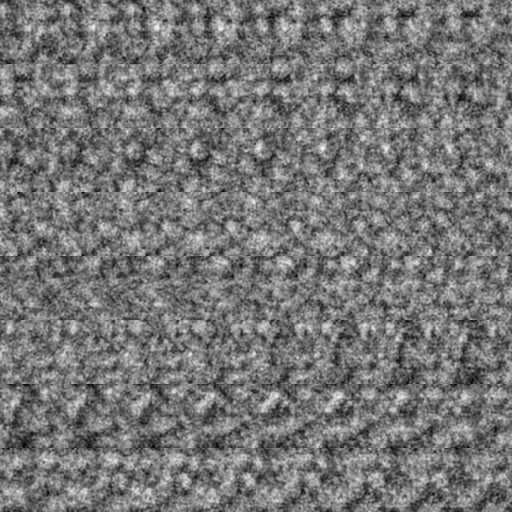
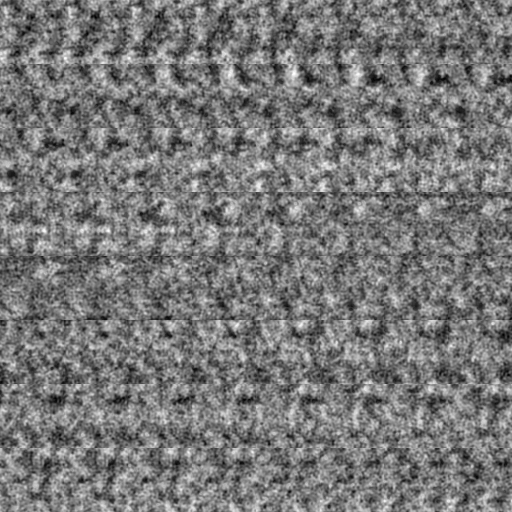
Версия 2, тест 0.8.2: облака из объёмных клубов — по разбору владельцем кадра 0.8.1
Облако было «куполом» над пятном карты: отсюда горы и пирамиды, плоские
подставки и горизонтальные «ступени». Теперь карта задаёт только, где
облако есть и какой у него потолок, а форму лепит объёмный шум: округлые
клубы разного размера, мягкий низ, тупой верх. Облако — цепочка из
нескольких воздушных масс. Свет — три пробы плотности к светилу.

Типы: малые и крупные кучевые, поля слоисто-кучевых, перистые пряди
высоко; в шторм низ туч провисает валами. Облака собраны в группы,
чистого неба больше четырёх пятых.

Шаг 1.7 отложен до окончания 1.10 (решение владельца).

Claude-Session: https://claude.ai/code/session_01GYZTpVpHB6EzyvMrXyiWEP

diff --git a/v2/tools/weather/make.py b/v2/tools/weather/make.py
@@ -5,13 +5,16 @@
 
 Пишет в v2/assets/weather/:
   cloud_map.png   — карта облаков 1024×1024, плитка 48 км (47 м на точку), бесшовная. Каналы:
-                    R — ясная погода: толщина отдельных кучевых облаков (1 — 2200 м);
+                    R — ясная погода: «присутствие» кучевых облаков (1 — середина облачной массы, к краю — 0);
                     G — шторм: сплошные тучи с крупными грозовыми башнями (1 — 3400 м);
-                    B — где в шторм льёт сильнее всего (под башнями).
+                    B — где в шторм льёт сильнее всего (под башнями);
+                    A — ясная погода: потолок облака над его низом (1 — 2200 м).
   cloud_noise.png — объёмный шум 64×64×64 (8×8 срезов), бесшовный: им «обгрызаются» края облаков.
 
-Облака ясной погоды — не шум, а отдельные облака: у каждого свой размер, вытянутость, число «клубов» и высота;
-лежат они неравномерно — группами, между которыми большие чистые участки неба. Числа — в начале файла.
+Облака ясной погоды — не шум, а отдельные облака: малые и крупные кучевые, одиночные и группами, местами поля
+слоисто-кучевых; у каждого свои размер, число воздушных масс и высота; между группами — большие чистые участки
+неба. На карте — где облако есть и какой у него потолок; сами клубы лепит объёмный шум в шейдере неба.
+Числа — в начале файла.
 """
 from pathlib import Path
 
@@ -26,7 +29,9 @@ TILE = 48000.0  # метров в плитке карты
 TEXEL = TILE / N
 CLEAR_DEPTH = 2200.0  # метров толщины облака ясной погоды при значении 1
 STORM_DEPTH = 3400.0  # то же для туч шторма
-CLEAR_CLOUDS = 100  # сколько облаков на плитке в ясную погоду (2300 км²)
+CLEAR_CLOUDS = 120  # сколько кучевых облаков на плитке в ясную погоду (2300 км²)
+CLEAR_LARGE = 9  # из них крупных
+CLEAR_SHEETS = 2  # и сколько полей слоисто-кучевых
 STORM_TOWERS = 13  # сколько грозовых башен на плитке
 
 
@@ -64,7 +69,7 @@ def stamp(target, warp_x, warp_y, centre, radius, height, power):
 
 
 def cloud(target, warp_x, warp_y, rng, centre, radius, depth, power):
-    """Одно облако: несколько клубов вдоль своей оси; середина выше краёв."""
+    """Туча шторма: несколько клубов вдоль своей оси; середина выше краёв."""
     lobes = int(round(4 + 6 * min(radius / 1500.0, 1.0) + rng.uniform(0, 3)))
     turn = rng.uniform(0, np.pi)
     stretch = rng.uniform(1.0, 2.0)
@@ -77,36 +82,81 @@ def cloud(target, warp_x, warp_y, rng, centre, radius, depth, power):
         lobe_radius = radius * rng.uniform(0.3, 0.64) * (1.0 - 0.25 * away)
         lobe_height = depth * (1.0 - 0.6 * away ** 1.5) * rng.uniform(0.6, 1.0)
         stamp(target, warp_x, warp_y, centre + axis * along + side * across, lobe_radius, lobe_height, power)
-    # Башенки: узкие высокие клубы ближе к середине — верх облака неровный.
-    for _ in range(int(rng.integers(1, 4))):
-        offset = axis * rng.uniform(-0.4, 0.4) * radius * stretch + side * rng.uniform(-0.3, 0.3) * radius / stretch
-        stamp(target, warp_x, warp_y, centre + offset, radius * rng.uniform(0.24, 0.4), depth * rng.uniform(0.95, 1.14), power)
+
+
+def cumulus(cover, top, warp_x, warp_y, rng, centre, radius, depth):
+    """Кучевое облако: несколько воздушных масс цепочкой (не вокруг одной середины — силуэт несимметричный),
+    у каждой свои размер и высота; одна из масс — главная, самая высокая. На карту ложится не форма облака,
+    а его «присутствие» (cover: 1 — середина массы, к краю сходит на нет) и потолок (top, метры): сами клубы
+    лепит объёмный шум в шейдере неба — поэтому у облака нет ни конуса, ни ровного края."""
+    masses = int(rng.integers(1, 3)) if radius < 500.0 else int(rng.integers(2, 6))
+    at = np.array(centre, dtype=float)
+    heading = rng.uniform(0, 2 * np.pi)
+    lead = int(rng.integers(0, masses))
+    for index in range(masses):
+        size = radius * rng.uniform(0.45, 0.8) * (1.0 if index == lead else rng.uniform(0.6, 0.95))
+        height = depth * (1.0 if index == lead else rng.uniform(0.4, 0.8))
+        stamp(cover, warp_x, warp_y, at, size, 1.0, 0.75)
+        stamp(top, warp_x, warp_y, at, size * 1.12, height, 0.3)
+        # Пара клубов сбоку от массы: край неровный.
+        for _ in range(int(rng.integers(1, 4))):
+            turn = rng.uniform(0, 2 * np.pi)
+            offset = np.array([np.cos(turn), np.sin(turn)]) * size * rng.uniform(0.55, 0.95)
+            small = size * rng.uniform(0.3, 0.55)
+            stamp(cover, warp_x, warp_y, at + offset, small, rng.uniform(0.6, 0.95), 0.75)
+            stamp(top, warp_x, warp_y, at + offset, small * 1.12, height * rng.uniform(0.45, 0.85), 0.3)
+        heading += rng.uniform(-1.1, 1.1)
+        at = at + np.array([np.cos(heading), np.sin(heading)]) * size * rng.uniform(0.8, 1.25)
 
 
 def clear_field(rng):
-    """Ясная погода: редкие отдельные кучевые облака, группами."""
-    groups = to_unit(spectral(rng, (N, N), 180, 520), 1.6)  # где облака собираются в группы (волны 8–24 км)
-    warp_x = spectral(rng, (N, N), 5, 44) * 130.0
-    warp_y = spectral(rng, (N, N), 5, 44) * 130.0
-    field = np.zeros((N, N))
-    placed = []
+    """Ясная погода: отдельные кучевые облака — малые и крупные, одиночные и группами, местами поле
+    слоисто-кучевых; между ними — большие чистые участки неба. Раскладывает их не равномерная случайность,
+    а плавное поле облачности: где оно высоко — группы облаков, где низко — чисто."""
+    field = spectral(rng, (N, N), 150, 600, 1.2)  # поле облачности: волны 7–28 км
+    groups = to_unit(field + 0.45 * spectral(rng, (N, N), 40, 150), 1.5)
+    warp_x = spectral(rng, (N, N), 5, 44) * 150.0
+    warp_y = spectral(rng, (N, N), 5, 44) * 150.0
+    cover = np.zeros((N, N))
+    top = np.zeros((N, N))
+    placed = 0
+    large = 0
     tries = 0
-    while len(placed) < CLEAR_CLOUDS and tries < 200000:
+    while placed < CLEAR_CLOUDS and tries < 400000:
         tries += 1
         centre = rng.uniform(0, TILE, 2)
         here = groups[int(centre[1] / TEXEL) % N, int(centre[0] / TEXEL) % N]
-        chance = 0.015 + np.clip((here - 0.54) / 0.3, 0.0, 1.0) ** 1.5
+        # Половина неба чистая: облака — только там, где поле облачности выше середины; редкие одиночки — где угодно.
+        chance = 0.004 + np.clip((here - 0.56) / 0.26, 0.0, 1.0) ** 1.6
         if rng.uniform() > chance:
             continue
-        radius = float(np.clip(rng.lognormal(np.log(430.0 + 380.0 * (chance - 0.015)), 0.45), 230.0, 1500.0))
-        offsets = [(np.array(c) - centre + TILE / 2) % TILE - TILE / 2 for c, _ in placed]
-        if any(np.hypot(*o) < (radius + r) * 1.15 for o, (_, r) in zip(offsets, placed)):
-            continue
-        placed.append((centre, radius))
-        depth = min(2.0 * radius * rng.uniform(0.42, 0.7), 1700.0)
-        cloud(field, warp_x, warp_y, rng, centre, radius, depth, 0.55)
-    field *= 0.88 + 0.12 * to_unit(spectral(rng, (N, N), 5, 30))
-    return gaussian_filter(field, 0.6, mode="wrap") / CLEAR_DEPTH, len(placed)
+        # Размеры: много малых облаков, реже средние, изредка — крупное кучевое в середине группы.
+        kind = rng.uniform()
+        if kind < 0.07 and chance > 0.5 and large < CLEAR_LARGE:
+            radius = rng.uniform(1300.0, 2600.0)
+            depth = rng.uniform(1200.0, 2100.0)
+            large += 1
+        elif kind < 0.4:
+            radius = rng.uniform(550.0, 1100.0)
+            depth = radius * rng.uniform(0.7, 1.3)
+        else:
+            radius = rng.uniform(220.0, 520.0)
+            depth = radius * rng.uniform(0.6, 1.2)
+        placed += 1
+        cumulus(cover, top, warp_x, warp_y, rng, centre, radius, min(depth, CLEAR_DEPTH * 0.98))
+    # Слоисто-кучевое поле: широкое пятно низких плоских облаков — то сомкнутых, то с просветами.
+    for _ in range(CLEAR_SHEETS):
+        centre = rng.uniform(0, TILE, 2)
+        span = rng.uniform(4500.0, 8000.0)
+        sheet = np.zeros((N, N))
+        stamp(sheet, warp_x * 6.0, warp_y * 6.0, centre, span, 1.0, 0.6)
+        cells = to_unit(spectral(rng, (N, N), 9, 70, 0.6), 1.3)
+        sheet_cover = np.clip((cells - 0.42) / 0.3, 0.0, 1.0) * np.clip(sheet * 1.6, 0.0, 1.0)
+        cover = np.maximum(cover, sheet_cover * 0.85)
+        top = np.maximum(top, (sheet_cover > 0.02) * rng.uniform(380.0, 520.0) * (0.8 + 0.4 * cells))
+    cover = gaussian_filter(cover, 0.7, mode="wrap")
+    top = gaussian_filter(top, 1.2, mode="wrap")
+    return np.clip(cover, 0.0, 1.0), top / CLEAR_DEPTH, placed, large
 
 
 def storm_field(rng):
@@ -157,18 +207,18 @@ def volume_noise(rng, size=64):
 def main():
     OUT.mkdir(parents=True, exist_ok=True)
     rng = np.random.default_rng(1206)
-    clear, count = clear_field(rng)
+    cover, top, count, large = clear_field(rng)
     storm, rain = storm_field(rng)
-    picture = np.stack([clear, storm, rain], -1)
-    Image.fromarray((np.clip(picture, 0.0, 1.0) * 255.0 + 0.5).astype(np.uint8), "RGB").save(OUT / "cloud_map.png", optimize=True)
+    picture = np.stack([cover, storm, rain, top], -1)
+    Image.fromarray((np.clip(picture, 0.0, 1.0) * 255.0 + 0.5).astype(np.uint8), "RGBA").save(OUT / "cloud_map.png", optimize=True)
     noise = volume_noise(rng)
     size = noise.shape[0]
     atlas = np.zeros((8 * size, 8 * size))
     for index in range(size):
         atlas[(index // 8) * size:(index // 8 + 1) * size, (index % 8) * size:(index % 8 + 1) * size] = noise[index]
     Image.fromarray((atlas * 255.0 + 0.5).astype(np.uint8), "L").save(OUT / "cloud_noise.png", optimize=True)
-    cover = float((clear > 60.0 / CLEAR_DEPTH).mean())
-    print(f"ясно: облаков {count}, под облаками {cover * 100:.1f} % неба, самое толстое {clear.max() * CLEAR_DEPTH:.0f} м")
+    print(f"ясно: облаков {count} (крупных {large}), облачность над {float((cover > 0.3).mean()) * 100:.1f} % неба, "
+          f"чистого неба {float((cover < 0.02).mean()) * 100:.0f} %, самое высокое {top.max() * CLEAR_DEPTH:.0f} м")
     print(f"шторм: толщина туч от {storm.min() * STORM_DEPTH:.0f} до {storm.max() * STORM_DEPTH:.0f} м, "
           f"средняя {storm.mean() * STORM_DEPTH:.0f} м; сильный дождь над {float((rain > 0.5).mean()) * 100:.0f} % площади")
     print(f"шум: среднее {noise.mean():.2f}")

diff --git a/v2/README.md b/v2/README.md
@@ -12,7 +12,7 @@
 | 1.3 Поверхности | принята 12.11 (тест 0.5.5) |
 | 1.4 Свет и небо | принята 12.11 (тест 0.6.0): «живописный» свет для всех времён суток |
 | 1.5 Океан | принята 12.11 (тест 0.7.4; пятна на озёрах исправлены в 0.7.5) |
-| 1.6 Атмосфера и погода | в работе: тест 0.8.1 — переделано по замечаниям владельца к 0.8.0: дымка и горизонт, отдельные объёмные облака (всегда выше камеры, без теней на земле), две погоды — ясно и шторм; дождь в мире (струи и завесы), ветвистые молнии |
+| 1.6 Атмосфера и погода | в работе: тест 0.8.2 — дымка и горизонт, объёмные облака из клубов (кучевые, слоисто-кучевые, перистые; всегда выше камеры, без теней на земле), две погоды — ясно и шторм; дождь в мире (струи и завесы), ветвистые молнии |
 
 ## Устройство
 
@@ -33,7 +33,7 @@
   - У малых островов своя порода (`WorldData.DESIGN_ROCK`) и своя смесь местностей (`DESIGN_BIOME`). Малый остров запекается как одно целое, даже когда лежит на краю области главных островов: плитки острова принадлежат его области, а в запекании соседней области остров узнаётся по месту (кругу), — иначе порода менялась бы по прямой линии (так было на кратере в 0.5.1). Свет и небо — шаг 1.4, вода — шаг 1.5 (см. ниже); цвет по умолчанию — «естественно» (владелец сравнил наборы клавишей V на 0.5.3 и выбрал его), «сочно» и «очень сочно» остаются на клавише V; затенение впадин по экрану (SSAO) выключено с 0.5.2 — оно заставляло шейдер земли выполняться дважды на каждую точку экрана (38 % времени кадра вблизи), а затенение ложбин и так запечено в картинку; к настоящему свету (шаг 1.4) вопрос решается заново; клавиша V переключает насыщенность картинки, B — разрешение картинки мира: 100, 77 или 67 % с достройкой до полного (надписи всегда в полном). По умолчанию оно выбирается по числу точек окна (`main.gd`, `AUTO_SCALE_PIXELS`): на экране 2880×1800 — 67 %. Сглаживание краёв — в два прохода (MSAA 2×).
 - **Свет и небо** (шаг 1.4) — узел `src/world/day_light.gd` и шейдер неба `src/world/sky.gdshader`. Времена суток — как в игре на сайте (`packages/domain/src/daytime.ts`): утро 7–9, день 9–18, вечер 18–22, ночь 22–7. У каждого времени суток свой **вид** — набор чисел в таблице `LOOKS` в начале `day_light.gd`: где солнце и луна, цвет и сила света, плотность теней, цвета неба от горизонта к зениту, зарево у горизонта, сила звёзд и луны, цвет и сила рассеянного света в тенях, густота дымки (её цвет — цвет неба у горизонта, см. «Погода»), экспозиция, насыщенность. Между видами всё перетекает плавно (`DayLight.blend`): числа и цвета — линейно, направления — по короткой дуге. Светило на земле одно (один источник света с тенями — как и было): днём солнце, ночью луна; на переходе вечер → ночь и ночь → утро свет первого гаснет к середине, свет второго разгорается после неё, а землю в сумерках держит рассеянный свет неба. Солнце в пределах одного времени суток стоит на месте (утром на востоке, днём на юго-западе — как принято с поверхностями, вечером на западе), луна всегда на востоке-северо-востоке. `set_phase` — переключение клавишей (2,5 с), `set_minutes` — по часам игры (как на сайте: 15 минут до границы и 15 после — смесь двух соседних видов); к часам партии свет подключится вместе с сервером. Небо — свой шейдер: переход цвета от горизонта к зениту (та же кривая, что у временного неба шага 1.3), зарево в стороне солнца, диск солнца с ореолом, луна с «морями», звёзды в два слоя (клетки небесной сферы, без текстур). Времени в шейдере нет намеренно: иначе движок пересчитывал бы небо для отражений в каждом кадре. Облака — шаг 1.6. **Выбор владельца (12.11, тест 0.6.0):** из двух направлений, показанных в одной сборке, — «естественного» (день как при приёмке поверхностей) и «живописного» — принято живописное для всех четырёх времён суток: сиренево-розовое утро с дымкой, насыщенный день, красно-оранжевый вечер под лиловым небом, бирюзово-синяя светлая ночь. С 0.6.1 в таблице только оно. Наборы клавиши V (естественно, сочно, очень сочно) ложатся поверх вида времени суток. Сила блика светила на суше (`specular`) у утра, вечера и ночи — сотые доли: с ними приняты времена суток; вода с шага 1.5 считает свой блик сама. Диски и ореолы солнца и луны в отражения и рассеянный свет не попадают (в шейдере неба они рисуются только на самом небе): их отражение в воде рисует вода. Затенение впадин по экрану (SSAO) по-прежнему выключено: ложбины затеняет сама картинка земли. Клавиша L переключает время суток.
 - **Вода** (шаг 1.5) — шейдер `src/terrain/water.gdshader`, числа вида — `src/terrain/water_look.gd`. Поверхность ровная (с высоты стратегии настоящих волн не видно, а стоят они дорого); жизнь ей дают: *рябь* — два слоя наклонов и крупная *зыбь* длинными грядами, всё идёт по ветру (в 0.7.0–0.7.1 слои ряби шли навстречу друг другу и «кипели» — владелец дважды назвал море неестественно быстрым); текстуры наклонов и пятен — бесшовный шум, считаются при запуске, не файлы; *без повтора* (замечание владельца к 0.7.2: «когда отдаляю море, замечаю закономерность повторения рисунка моря, или анимации»): текстура повторяется плиткой, и чтобы плитка не читалась с высоты, в ней 42 волны шума, а не 7 (плитка ряби — 64 и 153 м вместо 11 и 25, зыби — 880 × 2600 м вместо 150 × 450), слои повёрнуты друг к другу на «некруглые» углы, точка чтения текстуры плавно сдвинута шумом без повтора (`drift` — клеточный шум на целых числах: одинаков на любой видеокарте и точен вдали от начала мира), а всё крупное — луга водорослей на дне, оттенки открытого моря, очерёдность наката вдоль берега — задаёт этот же шум, а не текстура; значения новых текстур приведены к среднему и разбросу прежних (`WaterLook.WAVE_SPREAD`, `FOAM_MEAN`, `FOAM_SPREAD`), поэтому вид воды тот же; проверяется числом — `tools/water_repeat.py` (автокорреляция кадра открытого моря: пик на сдвиге в размер плитки был 0,18–0,24, стал 0,08–0,10 без выделенного сдвига); *цвет по глубине* — глубина берётся из запечённого рельефа; *дно* у берега рисует сама вода: песок, глубже ил, мягкие пятна водорослей, камень на крутом, солнечная сетка на мелководье — землю под водой шейдер суши красит как сушу (тот же пляж), и сквозь прозрачную воду она смотрелась сушей (замечание владельца к 0.7.1: дно «не должно повторять сушу»); дно рисуется по глубине из запечённого рельефа и видно, пока его не скроет толща воды (`murk`; в шторм вода мутная), а прозрачна вода только у самого уреза (первые 20 см глубины) — земля под водой нужна лишь там; *без полос* (замечание владельца к 0.7.3: «полосы видны» — снимок блика солнца с высоты): волна, которая на экране тоньше нескольких точек, рисоваться не должна — гребни зыби с высоты и рябь при пологом взгляде сжимаются до двух-трёх точек и сливаются в ровные «строчные» полосы, особенно в блике; это не повтор плитки, и увеличение плитки их не убирает (текстура становится грубее). Текстуры волн читаются с уровнем подробности по длинной стороне точки экрана и с запасом (`RIPPLE_SOFTEN`, `SWELL_SOFTEN` в шейдере): всё мельче четырёх-шести точек плавно гаснет; с высоты искра блика шире и слабее (`far_view`) — невидимые мелкие волны в жизни и размывают отражение светила; *накат* — уровень воды у берега ходит раз в десять секунд: вода быстро взбегает на берег выше обычного уреза и медленно откатывается ниже него; очерёдность вдоль берега задаёт шум без повтора (на сотне метров берега волна приходит почти разом, дальше — в свой черёд; в 0.7.2 весь берег мира дышал почти одновременно), и каждая волна своей высоты — от двух третей до полной; чтобы берег выше уреза не закрывал воду, полотно моря поднято на высоту наката (`WorldTerrain._apply_water`), а где воды сейчас нет, оно прозрачно; у наката своё время — секунды по часам, от скорости воды он не зависит; *пена* — рваная кромка у самой воды (идёт вместе с накатом), полосы прибоя, бегущие к берегу, и барашки на передних склонах гряд; *блик* — узкие искры там, где склон ряби смотрит между светилом и камерой, и мягкая широкая дорожка; считается в шейдере воды (функция `light`), а не движком: блик движка на ровной воде был белым столбом на треть экрана. Толща воды освещена почти как ровная поверхность, доля света по наклону ряби (`relief`) делает волны видимыми с любой стороны. Отражение неба добавляет движок. Озёра и вода оазисов — та же вода, спокойнее, без прибоя и без наката на берег. **Время воды** — параметр шейдера, а не `TIME`: его копит `world_terrain.gd`, умножая на скорость воды, — при смене скорости рябь не прыгает, а в кадрах проверок время стоит, и кадр с водой повторим. **Вид воды один — «живое море»** (выбор владельца 12.11 на тесте 0.7.0 из трёх). **Шторм** (событие игры: администратор задаёт недельные интервалы, в шторм участники видят только карту с бурей — `packages/domain/src/storm.ts`) — второй набор тех же чисел (`WaterLook.STORM`): вода темнее и серее, рябь и зыбь сильнее, прибой — взбитая рваная кайма, барашки, блика нет; это вид шторма из 0.7.0 — добавленные в 0.7.1 «большие волны» владелец попросил убрать. Доля шторма 0…1 идёт к цели плавно (`main.gd`, `STORM_SECONDS`), и по ней вместе перетекают вода (`WorldTerrain.set_storm`) и свет с небом (`DayLight.set_storm`); шаг полос прибоя и размеры ряби и зыби от шторма не зависят — иначе рисунок съезжал бы, пока шторм набирает силу (замечание владельца 12.11: «важен плавный переход»). Тучи, дождь и молнии шторма — шаг 1.6 (ниже); `DayLight.storm_view` даёт только пасмурный свет. **Скорость воды и высота наката** — числа владельца, подобранные ползунками на тесте 0.7.2 (`WaterLook.SPEED`, `SWASH`): скорость 0,40 в ясную погоду и 1,00 в шторм, накат 1,20 м в обоих. Окно с ползунками (тесты 0.7.2–0.7.4) убрано при приёмке шага. **Море не заходит в котловины озёр** (0.7.5): полотно моря поднято на высоту наката, а дно глубоких озёр местами ниже неё — вода моря «взбегала» посреди озера светлыми пятнами (замечание владельца к 0.7.4); шейдер не рисует море там, где запечён уровень озера. На малых островах других карт нашлись и ложбины за берегом ниже высоты наката (в 0.7.5 проверялась только «Осень»): при постройке мира от моря по низкой суше идёт заливка (клетка 4 м), и суша, до которой она не дошла, закрыта для моря маской (`WorldTerrain._swash_mask`) — шейдер воды моря там не рисует; облёт проверяет это на каждой карте, заодно меряя, что было бы без маски. Пена в шторм серая с песком (`foam_color` в `WaterLook.STORM`; замечание владельца 12.11: белая слишком выделялась). Клавиша P — ясно ↔ шторм.
-- **Погода** (шаг 1.6) — узел `src/world/weather.gd`. **Решения владельца 12.11 (после теста 0.8.0):** погод две — ясно и шторм (отдельного «дождя» нет); облаков ниже камеры не бывает; облака — отдельные, разные, объёмные, в ясную погоду их мало и лежат они неравномерно; теней на землю и море облака не кладут; дождь — в мире, а не штрихами по экрану; молнии — видимые разряды, свет — их следствие; графику версии 1 не копировать. Критерий владельца: «если отключить дождевые частицы, по одним только облакам, освещению, океану и атмосферной видимости всё равно должно быть понятно, что над миром происходит сильный шторм». Погода — набор чисел («вид»): толщина кучевых облаков, доля штормовых туч, ветер, доля пасмурного света, доля шторма в море, дождь, мокрая земля, молнии; между погодами числа перетекают плавно, за десять секунд (`CHANGE_SECONDS`). Шторм — событие игры (`packages/domain/src/storm.ts`). Песчаной мглы нет. Звук — отдельно, позже. **Дымка** (`src/world/atmosphere.gdshaderinc`): воздух у моря плотнее и редеет с высотой (`DayLight.HAZE_DENSITY`, `HAZE_HEIGHT`); сколько дымки между камерой и точкой, считается по пути луча сквозь этот слой — вниз с высоты её мало, вдоль моря к горизонту много. Поэтому дальние острова тают постепенно, море у горизонта уходит в небо без линии, а земля под камерой ясная и с высоты. Цвет дымки — цвет неба у горизонта в ту же сторону (с заревом и ореолом солнца). Туман движка выключен: дымку пишет сам материал — `FOG = air(камера, точка)` в шейдерах земли и воды; **всё, что появится в мире позже (города, корабли), должно звать `air()` так же.** Небо рисует ту же дымку полосой у горизонта и морем «за краем света» под горизонтом. **Облака** — одна карта на всё: `assets/weather/cloud_map.png` (плитка 48 км, её считает `tools/weather/make.py`): R — отдельные кучевые облака ясной погоды (сотня на плитку, группами, между ними большие чистые участки; у каждого свой размер, вытянутость, число «клубов» и высота), G — тучи шторма (сплошной слой разной толщины, валы и грозовые башни), B — где в шторм льёт сильнее. Карта плывёт по ветру. Небо (`sky.gdshader`) рисует облака **объёмом**: луч взгляда идёт сквозь слой облаков шагами (крупными, а рядом с облаком — мелкими), в каждой точке по карте известно, есть ли тут облако и сколько облака на пути к светилу (сторона к свету светлая, низ и дальняя сторона в тени); края «обгрызает» объёмный шум (`assets/weather/cloud_noise.png`); дальние облака тают в дымке. Считается в половинном разрешении и только для лучей выше горизонта; в отражения и рассеянный свет облака не идут. **Низ облаков всегда выше камеры** (`CLOUD_BASE` 1900 м, над камерой не ниже `CLOUD_ABOVE` 1400 м): когда камера поднимается, слой поднимается с ней. Числа облаков — общие для всех шейдеров (`global uniform`, раздел `shader_globals` в `project.godot`; каждый кадр их ставит `weather.gd`): движение облаков не трогает материалы, и небо не пересчитывается для отражений (в шейдере неба нет ни `TIME`, ни положения камеры — оно приходит общим числом `cloud_eye`). **Шторм:** тучи приходят не пеленой разом — сначала грозовые башни, потом слой между ними; низ туч неровный (провисает клубами), под толстой тучей он почти чёрный, под тонкой светлее; пасмурный свет — `DayLight.set_storm` (свет слабый и рассеянный, краски глуше; ночью тучи гасят луну меньше, чем солнце); море — вид шторма шага 1.5, пена в шторм серая с песком. **Дождь — в мире:** вблизи — струи трёх планов вокруг камеры (`rain_drops.gdshader`, таблица `Weather.RAIN_PLANES`): капли живут в мире, а не на экране, у каждой чуть своя скорость и направление, наклон по ветру, густота — по карте (под толстыми тучами льёт, между ними реже); с высоты струи сходят на нет. Вдали и с высоты дождь — **завесы**: пелена в самом воздухе, которую считают материалы земли, воды и неба по пути луча (`rain_veil` в `atmosphere.gdshaderinc`): завесы висят под своими тучами с наклоном по ветру, вблизи рваные, вдали сливаются в ровную пелену и закрывают дальние острова. Глубина кадра для этого не нужна — при сглаживании MSAA шейдеру её не дают (первая проба с листом на весь экран из-за этого «двоила» горы). Мокрая земля — общее число `rain_wet`. **Молнии** (`src/world/lightning.gd`, `lightning.gdshader`): ветвистая ломаная, каждый раз своя, — до земли или моря, между тучами под их низом или внутри тучи (канала не видно, туча светится изнутри); бьёт там, куда смотрит камера, и где тучи толще; промежутки неровные, иногда два разряда подряд; разряд вспыхивает несколько раз и гаснет за полсекунды. Лента разряда не тоньше пары точек экрана на любом расстоянии. Свет — от разряда: он подсвечивает тучи (общее число `flash_at`) и дождь вокруг себя, а землю и море — лампой в месте разряда, слабее с расстоянием. **Ветер** — одно направление на всё (`Weather.WIND`, то же, что у ряби и зыби моря); от погоды зависит сила: скорость облаков, наклон дождя, волнение моря. В кадрах проверок облака и дождь стоят, молнии ставит `Weather.show_strike`. **Вертикальные полосы у горизонта** (замечание владельца к 0.8.0) давал прежний расчёт облаков: точка облака на «куполе» у самого горизонта переставала зависеть от высоты взгляда; этого расчёта больше нет. Клавиша P — ясно ↔ шторм.
+- **Погода** (шаг 1.6) — узел `src/world/weather.gd`. **Решения владельца 12.11 (после теста 0.8.0):** погод две — ясно и шторм (отдельного «дождя» нет); облаков ниже камеры не бывает; облака — отдельные, разные, объёмные, в ясную погоду их мало и лежат они неравномерно; теней на землю и море облака не кладут; дождь — в мире, а не штрихами по экрану; молнии — видимые разряды, свет — их следствие; графику версии 1 не копировать. Критерий владельца: «если отключить дождевые частицы, по одним только облакам, освещению, океану и атмосферной видимости всё равно должно быть понятно, что над миром происходит сильный шторм». Погода — набор чисел («вид»): толщина кучевых облаков, доля штормовых туч, ветер, доля пасмурного света, доля шторма в море, дождь, мокрая земля, молнии; между погодами числа перетекают плавно, за десять секунд (`CHANGE_SECONDS`). Шторм — событие игры (`packages/domain/src/storm.ts`). Песчаной мглы нет. Звук — отдельно, позже. **Дымка** (`src/world/atmosphere.gdshaderinc`): воздух у моря плотнее и редеет с высотой (`DayLight.HAZE_DENSITY`, `HAZE_HEIGHT`); сколько дымки между камерой и точкой, считается по пути луча сквозь этот слой — вниз с высоты её мало, вдоль моря к горизонту много. Поэтому дальние острова тают постепенно, море у горизонта уходит в небо без линии, а земля под камерой ясная и с высоты. Цвет дымки — цвет неба у горизонта в ту же сторону (с заревом и ореолом солнца). Туман движка выключен: дымку пишет сам материал — `FOG = air(камера, точка)` в шейдерах земли и воды; **всё, что появится в мире позже (города, корабли), должно звать `air()` так же.** Небо рисует ту же дымку полосой у горизонта и морем «за краем света» под горизонтом. **Облака** — одна карта на всё: `assets/weather/cloud_map.png` (плитка 48 км, её считает `tools/weather/make.py`): R — «присутствие» кучевых облаков ясной погоды (1 — середина облачной массы, к краю сходит на нет), A — их потолок, G — тучи шторма (сплошной слой разной толщины, валы и грозовые башни), B — где в шторм льёт сильнее. Карта плывёт по ветру. Облака ясной погоды — малые и крупные кучевые (каждое — цепочка из нескольких воздушных масс, силуэт несимметричный), одиночные и группами, и поля слоисто-кучевых; раскладывает их плавное поле облачности — группы разной густоты и большие чистые участки (чистого неба больше четырёх пятых). **Форму облака карта не задаёт** (в 0.8.1 облако было «куполом» над пятном карты — владелец увидел в них горы и пирамиды со «ступенями» и плоскими подставками): клубы лепит объёмный шум (`assets/weather/cloud_noise.png`, функция `cloud_density` в `sky.gdshader`) — в середине массы шум заполняет её почти целиком, к краю остаются отдельные клубы и клочья; низ мягкий, верх тупой и округлый. Небо рисует облака **объёмом**: луч взгляда идёт сквозь слой облаков шагами (крупными, а рядом с облаком — мелкими; начало луча у каждой точки экрана чуть своё, чтобы шаги не складывались в полосы), свет в каждой точке — по трём пробам плотности на пути к светилу (сторона к свету светлая, низ и дальняя сторона в тени, тонкий край к солнцу светится); дальние облака тают в дымке. Считается в половинном разрешении и только для лучей выше горизонта; в отражения и рассеянный свет облака не идут. **Перистые** — тонкий слой прядей на 5 км выше кучевых, местами, вытянут по своему ветру (один срез шума, не объём); в шторм их закрывают тучи. Наковален у грозовых туч нет: в шторм камера всегда под сплошным слоем. **Низ облаков всегда выше камеры** (`CLOUD_BASE` 1900 м, над камерой не ниже `CLOUD_ABOVE` 1400 м): когда камера поднимается, слой поднимается с ней. Числа облаков — общие для всех шейдеров (`global uniform`, раздел `shader_globals` в `project.godot`; каждый кадр их ставит `weather.gd`): движение облаков не трогает материалы, и небо не пересчитывается для отражений (в шейдере неба нет ни `TIME`, ни положения камеры — оно приходит общим числом `cloud_eye`). **Шторм:** тучи приходят не пеленой разом — сначала грозовые башни, потом слой между ними; низ туч плотный и неровный — провисает валами в сотни метров (`STORM_SWELL`), под толстой тучей он почти чёрный, под тонкой светлее, провисшие валы светлее впадин; пасмурный свет — `DayLight.set_storm` (свет слабый и рассеянный, краски глуше; ночью тучи гасят луну меньше, чем солнце); море — вид шторма шага 1.5, пена в шторм серая с песком. **Дождь — в мире:** вблизи — струи трёх планов вокруг камеры (`rain_drops.gdshader`, таблица `Weather.RAIN_PLANES`): капли живут в мире, а не на экране, у каждой чуть своя скорость и направление, наклон по ветру, густота — по карте (под толстыми тучами льёт, между ними реже); с высоты струи сходят на нет. Вдали и с высоты дождь — **завесы**: пелена в самом воздухе, которую считают материалы земли, воды и неба по пути луча (`rain_veil` в `atmosphere.gdshaderinc`): завесы висят под своими тучами с наклоном по ветру, вблизи рваные, вдали сливаются в ровную пелену и закрывают дальние острова. Глубина кадра для этого не нужна — при сглаживании MSAA шейдеру её не дают (первая проба с листом на весь экран из-за этого «двоила» горы). Мокрая земля — общее число `rain_wet`. **Молнии** (`src/world/lightning.gd`, `lightning.gdshader`): ветвистая ломаная, каждый раз своя, — до земли или моря, между тучами под их низом или внутри тучи (канала не видно, туча светится изнутри); бьёт там, куда смотрит камера, и где тучи толще; промежутки неровные, иногда два разряда подряд; разряд вспыхивает несколько раз и гаснет за полсекунды. Лента разряда не тоньше пары точек экрана на любом расстоянии. Свет — от разряда: он подсвечивает тучи (общее число `flash_at`) и дождь вокруг себя, а землю и море — лампой в месте разряда, слабее с расстоянием. **Ветер** — одно направление на всё (`Weather.WIND`, то же, что у ряби и зыби моря); от погоды зависит сила: скорость облаков, наклон дождя, волнение моря. В кадрах проверок облака и дождь стоят, молнии ставит `Weather.show_strike`. **Вертикальные полосы у горизонта** (замечание владельца к 0.8.0) давал прежний расчёт облаков: точка облака на «куполе» у самого горизонта переставала зависеть от высоты взгляда; этого расчёта больше нет. Клавиша P — ясно ↔ шторм.
 - **Другие карты.** Кроме «Осени» в сборке лежат карты, построенные генератором игры по другим зёрнам (`data/world_proba_*.json`, делает `tools/gen-world.mjs`); клавиша M переключает карты. На них проверяется, что форма земли складывается сама на любой карте: `tools/sandbox/check.py` ищет числами швы, море посреди суши, перекрёстки в воде и неровные площадки, конвейер строит каждую карту в игре и снимает её кадры.
 - **Камера** — `src/camera/strategy_camera.gd`: фокус на земле, расстояние, поворот, наклон; цель и сглаженное текущее положение. Наклон свободный: от почти отвесного взгляда до 12° выше горизонта (камера опускается к земле, затем поднимается сам взгляд). Над склоном камера поднимается плавно (с 0.5.1): земля под ней считается «расширенной» конусом — обрыв впереди поднимает камеру заранее, — а сам подъём сглажен по времени; высота, на которую смотрит камера, — средняя по кругу вокруг фокуса, а не высота одной точки (иначе над уступами взгляд дёргался).
 - **Масштаб**: гекс — 100 м от центра до угла, высоты в метрах.

diff --git a/docs/V2_ROADMAP.md b/docs/V2_ROADMAP.md
@@ -66,7 +66,7 @@
 | ✅ 1.4 Свет и небо | Солнце, тени, небо, цветокоррекция. Утро, день, вечер, ночь с луной и звёздами (в игре это уже механика). **Принят владельцем 12.11** (тест 0.6.0): «живописный» свет для всех времён суток | Каждое время суток отдельно |
 | ✅ 1.5 Океан | Глубина и прозрачность, пена у берега, волны, отражения; озёра и вода оазиса; море в шторм и плавный переход к нему. **Принят владельцем 12.11** (тест 0.7.4): «живое море», накат на берег, своё дно | Цвет и характер воды |
 | 🛠 1.6 Атмосфера и погода | Дымка, облака (без теней на земле), ветер. Погод две: ясно и шторм из игры (дождя как отдельной погоды и песчаной мглы не будет — решения владельца 12.11) | Ясную погоду и шторм — каждую отдельно |
-| ⬜ 1.7 Туман неизведанного | Неоткрытая земля под облаками, красивое раскрытие при открытии перекрёстка | Вид тумана и анимацию раскрытия |
+| ⬜ 1.7 Туман неизведанного | Неоткрытая земля под облаками, красивое раскрытие при открытии перекрёстка. **Отложен до окончания 1.10** (решение владельца 12.11) | Вид тумана и анимацию раскрытия |
 | ⬜ 1.8 Растительность и камни | Оливы, пальмы, кипарисы, кустарник, трава, поля, скалы; качание на ветру | Каждый вид отдельно и густоту по местностям |
 | ⬜ 1.9 Дороги и перекрёстки | Дороги по сторонам гексов, перекрёстки, свитки дел, дороги команды её цветом, мощёные камнем | Вид дороги свободной, взятой, принятой, мощёной |
 | ⬜ 1.10 Города | Система городов: типы (деревня, город со стенами, крепость, храмовый город, порт, шатровый стан, город на холме, столица), рост, опустевший город, городская стена блоками. Сначала пилот из трёх городов, затем остальные партиями; у каждой из 66 книг свой узнаваемый объект | Пилот; затем каждую партию городов; объект каждой книги |
@@ -464,6 +464,14 @@
 - **Проверки облёта, новые:** облака идут по небу; облаков под камерой нет (у земли и с самой большой высоты); море у горизонта переходит в небо без линии; шторм виден и без струй дождя — критерий владельца (кадр шторма без струй отличается от ясного на 106 из 255, сами струи меняют кадр меньше чем на 0,1); молния видна и гаснет без следа. Шторм приходит плавно — прежняя проверка, теперь с новыми тучами и дождём.
 - **Скорость** (программная отрисовка, мерило — время кадра): в ясную погоду кадры не тяжелее 0.8.0 (264 / 378 / 903 мс против 287 / 457 / 892 на трёх высотах); в шторм тяжелее на 15–40 % (пелена дождя в материалах). На видеокарте владельца — только его замер F5, в ясную погоду и в шторм.
 - **Чего я не вижу в рабочей среде:** движения (облака, струи, молнии — по неподвижным кадрам и числам) и настоящей скорости.
+
+**12.11 — тест 0.8.2: облака по разбору владельцем кадра 0.8.1; шаг 1.7 отложен, начат шаг 1.8.**
+
+- **Владелец о кадре 0.8.1:** облака похожи на горы и пирамиды (конус с узкой вершиной); видны горизонтальные полосы и ступени («стопка белых дисков»); основания — жёсткие плоские подставки; все слишком белые и одинаковые по материалу; силуэты повторяются; расставлены как декоративные элементы на одном уровне. Требования: неправильные асимметричные формы из нескольких воздушных масс, округлые выступы разных размеров, плавная плотность, мягкие основания, светотень от солнца с самозатенением и рассеянием, разные типы (малые и крупные кучевые, слоисто-кучевые, перистые, грозовые), группы и большие чистые участки.
+- **Причина одна:** облако 0.8.1 было «куполом» над пятном карты (высота как у рельефа) — отсюда и гора, и ровная подошва, и горизонтальные срезы при шагах луча. **Исправление:** карта теперь задаёт только, где облако есть («присутствие», 1 в середине массы, к краю 0) и какой у него потолок; форму лепит объёмный шум — в середине он заполняет массу, к краю остаются отдельные клубы и клочья; низ мягкий, верх тупой. Облако — цепочка из нескольких масс, одна главная. Свет — три пробы плотности к светилу. Начало луча у каждой точки экрана своё — полос нет.
+- **Типы:** малые и крупные кучевые (9 крупных на плитку 48 км), два поля слоисто-кучевых, перистые пряди тонким слоем на 5 км выше (местами). Шторм: низ туч плотный, провисает валами. Наковален нет: в шторм камера всегда под слоем туч (сказано владельцу).
+- **Проверки воды и погоды** на первой карте — все прошли. Время кадра на программной отрисовке: ясно 307 / 670 / 768 мс на трёх видах с небом (в 0.8.1 — 264 / 378 / 903 при других наклонах): расчёт облаков стал тяжелее там, где неба в кадре много.
+- **Решение владельца о порядке:** шаг 1.7 «Туман неизведанного» пропускаем, сделаем после 1.10 «Города»; в этой же серии правок — шаг 1.8 «Растительность, леса, поля, камни и скалы» (задание владельца — в записи о шаге 1.8 ниже).
 
 ## 5. Репозиторий, сервер, сервисы
 
